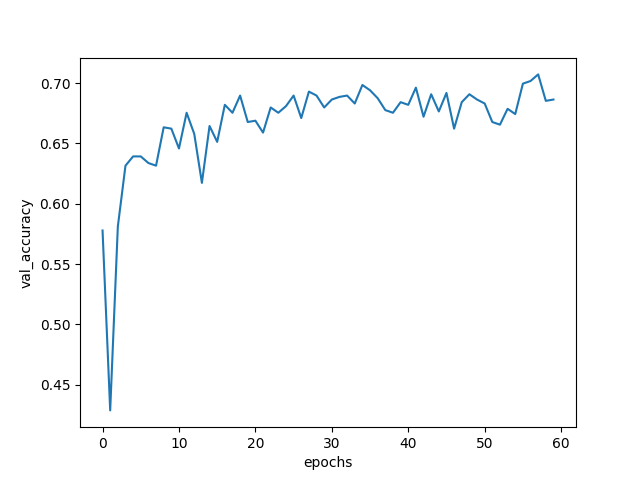
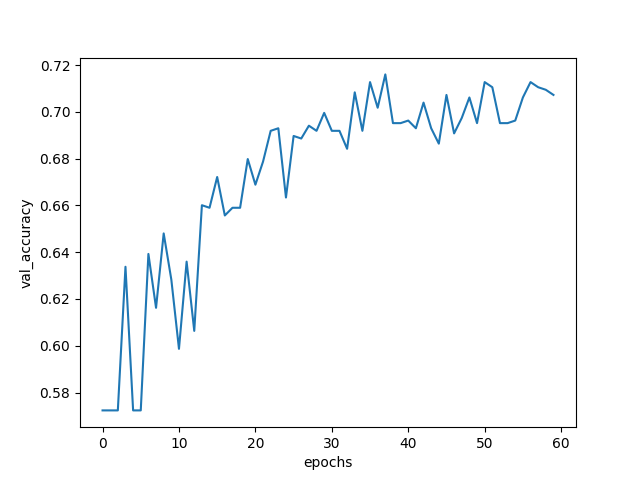
Optimized lr

diff --git a/Nick_tests/replicate/gender_model.py b/Nick_tests/replicate/gender_model.py
@@ -233,7 +233,8 @@ print("defined model")
 model.type(dtype)
 model.train()
 loss_fn = nn.CrossEntropyLoss().type(dtype)
-optimizer = optim.Adam(model.parameters(), lr=8e-5,weight_decay=0)
+# 1e-1 too high
+optimizer = optim.Adam(model.parameters(), lr=8e-5,weight_decay=1e-2)
 print("start training")
 loss_history,acc_history,val_acc_history=train(train_loader,val_loader, model, loss_fn, optimizer, dtype,num_epochs=15, print_every=17)
 
